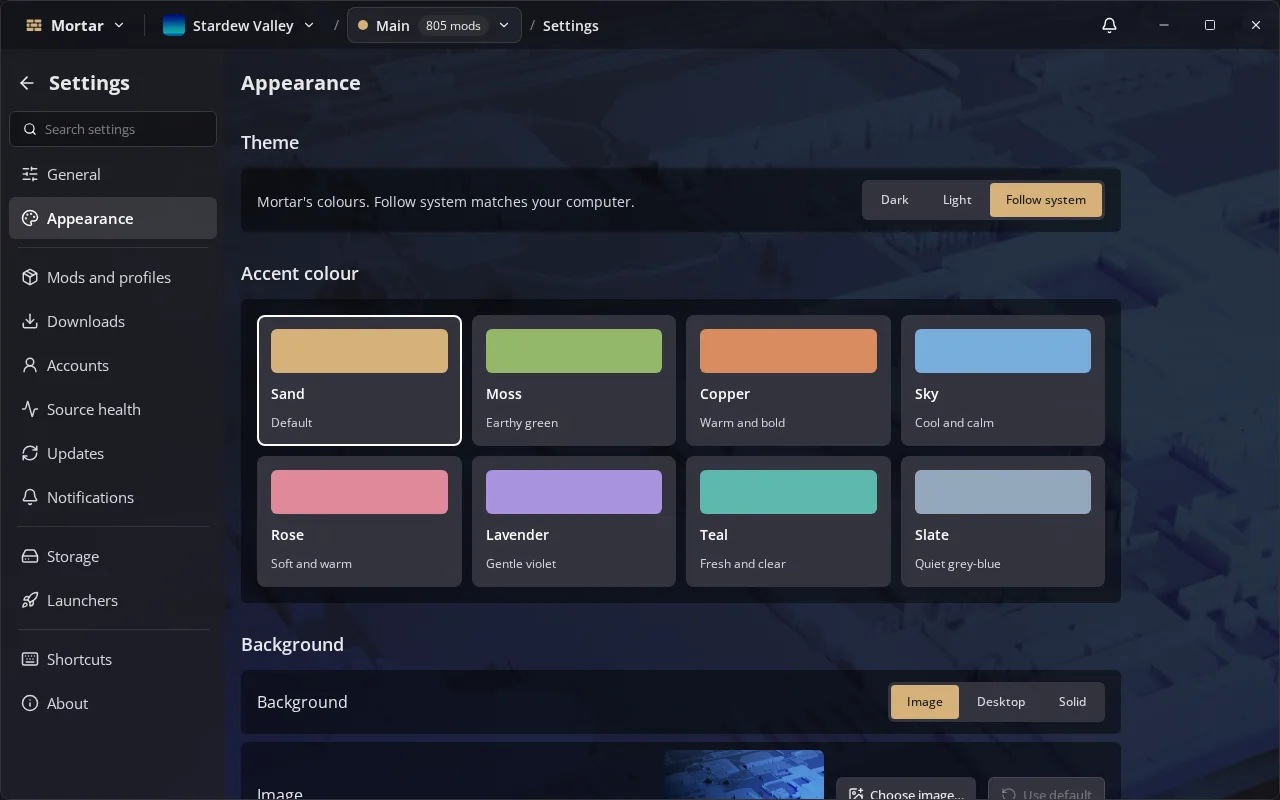
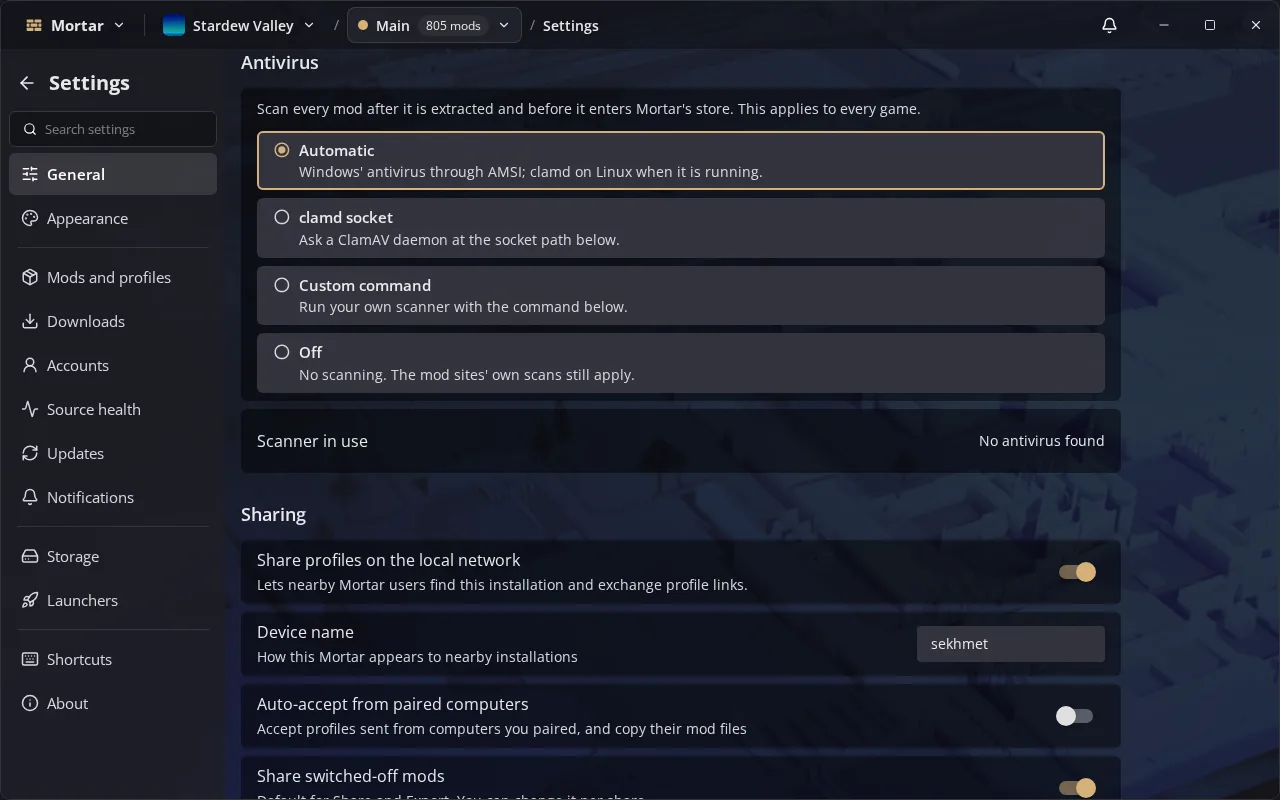
docs(screenshots): settings shot shows General's antivirus choices, with captions to match

diff --git a/site/index.html b/site/index.html
@@ -303,10 +303,11 @@
 
         <div class="feature">
           <div class="copy">
-            <h2>Looks the way you like</h2>
+            <h2>Scanned before it installs</h2>
             <p>
-              Dark or light, eight accent colours, and your own image, your
-              desktop wallpaper or a solid colour behind the window.
+              Every mod is checked by your antivirus after it is unpacked and
+              before it reaches your game: Windows' own scanner, ClamAV, or a
+              command of your choice.
             </p>
           </div>
           <img
@@ -315,7 +316,7 @@
             width="1280"
             height="800"
             loading="lazy"
-            alt="Appearance settings with theme, accent colours and window background"
+            alt="General settings with the antivirus choices: Automatic, clamd socket, custom command or off"
           />
         </div>
       </section>

diff --git a/frontend/e2e/screens.ts b/frontend/e2e/screens.ts
@@ -217,7 +217,18 @@ const SITE: Scene[] = [
         .waitFor({ timeout: STEP_MS })
     },
   },
-  { name: 'settings', ...DESK, profile: STARDEW, steps: (page) => settings(page, 'Appearance') },
+  {
+    name: 'settings',
+    ...DESK,
+    profile: STARDEW,
+    steps: async (page) => {
+      await settings(page, 'General')
+      await page
+        .getByText('Antivirus', { exact: true })
+        .first()
+        .evaluate((h) => h.scrollIntoView({ block: 'start' }))
+    },
+  },
 ]
 
 async function siteShots() {

diff --git a/README.md b/README.md
@@ -46,7 +46,7 @@ Prerequisites (including the `wails3` CLI built from the pinned Wails fork), bui
 
 <table>
 <tr><td align="center"><img src="build/linux/screenshots/problems.png" alt="Problems tab explaining which mod wins each content conflict, with Disable and Make a pack win buttons" width="440"><br><sub>Problems: content conflicts explained, with one-click fixes</sub></td><td align="center"><img src="build/linux/screenshots/performance.png" alt="Performance tab: time to the title screen and each mod's startup cost" width="440"><br><sub>Performance: what each mod costs at startup</sub></td></tr>
-<tr><td align="center" colspan="2"><img src="build/linux/screenshots/settings.png" alt="Appearance settings: theme, accent colours and background" width="600"><br><sub>Themes, accent colours and the window background</sub></td></tr>
+<tr><td align="center" colspan="2"><img src="build/linux/screenshots/settings.png" alt="General settings: the antivirus that scans every mod before it is installed" width="600"><br><sub>Every mod scanned by your antivirus before it is installed</sub></td></tr>
 </table>
 
 ## Documentation
